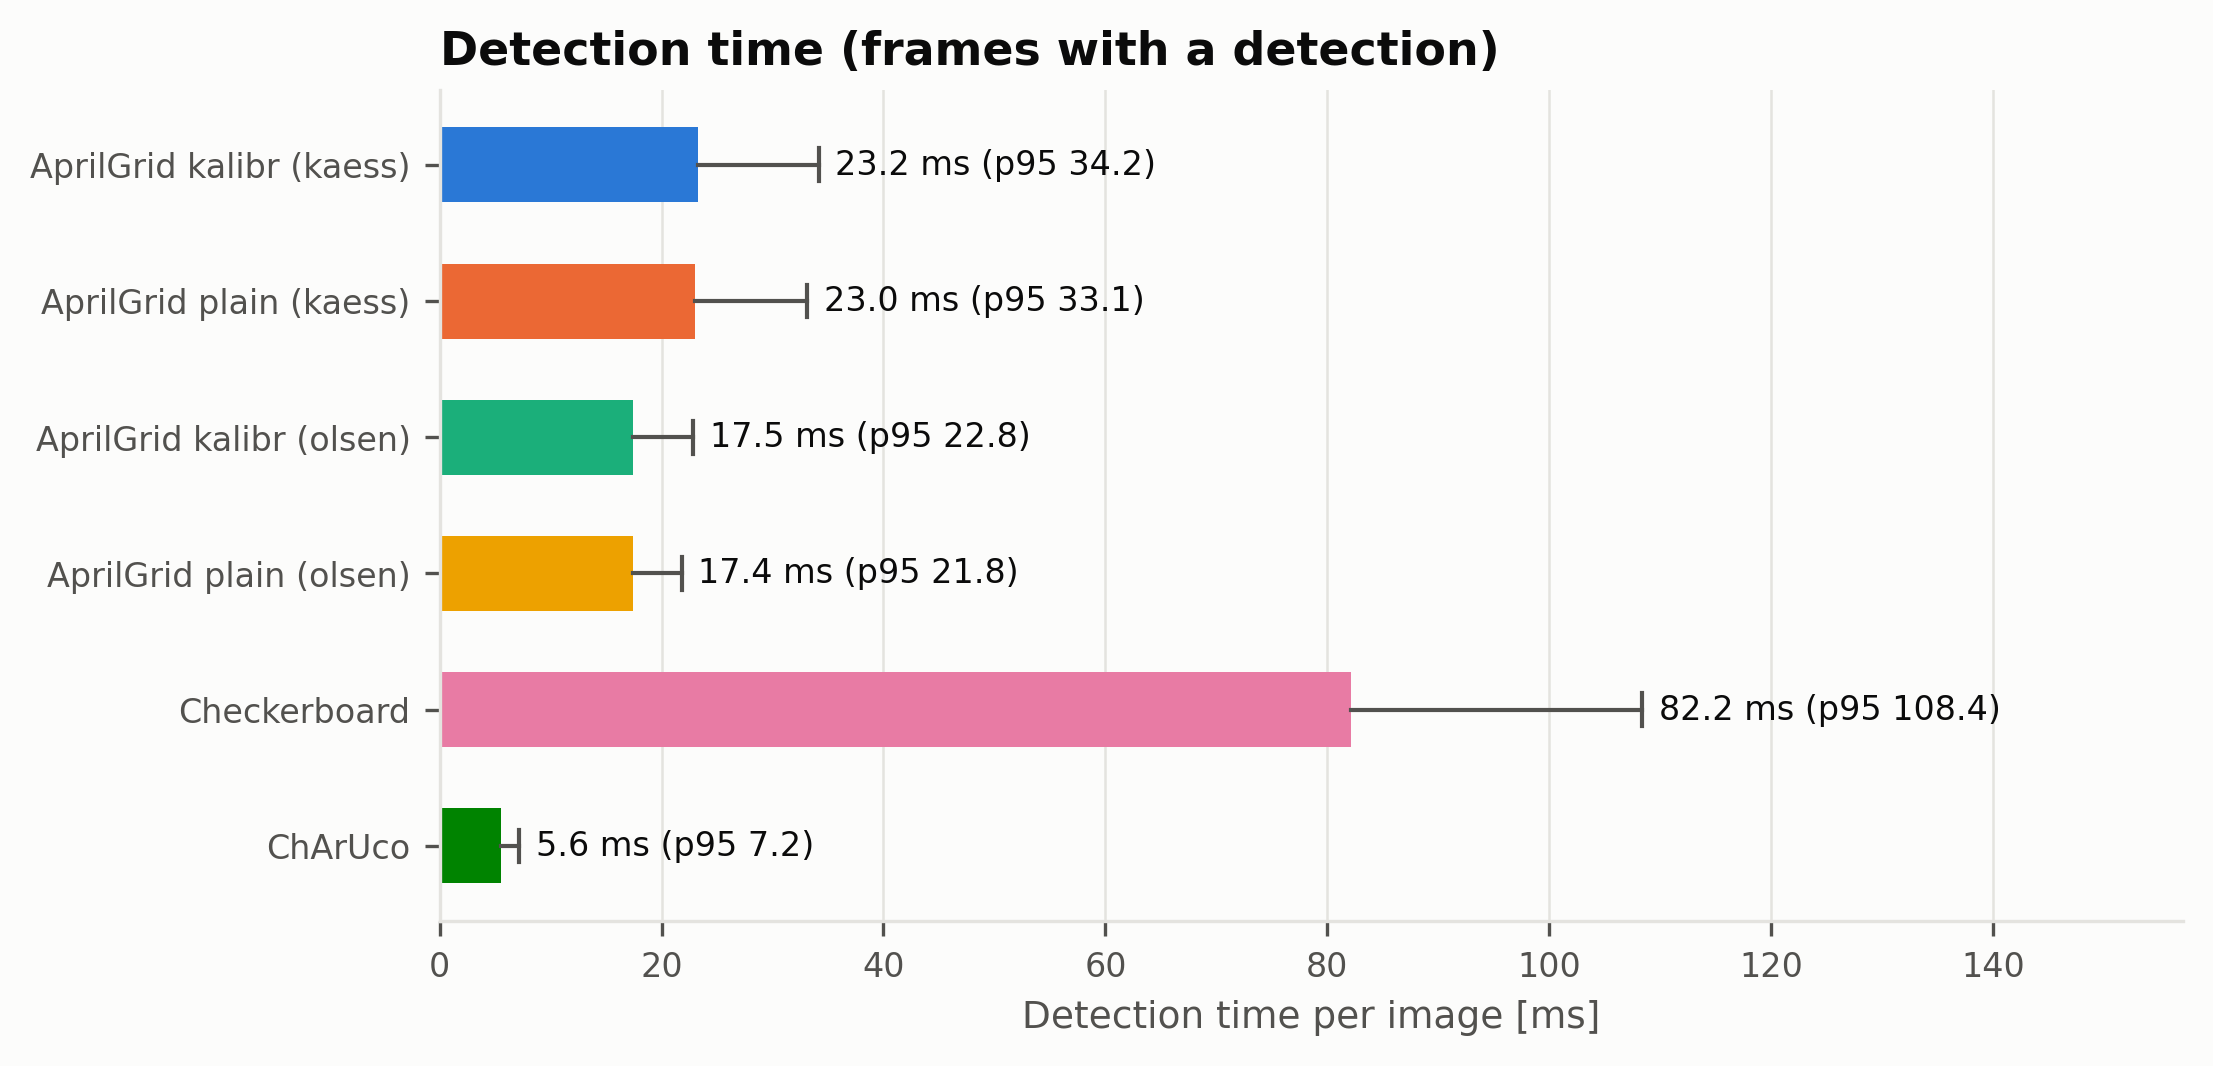
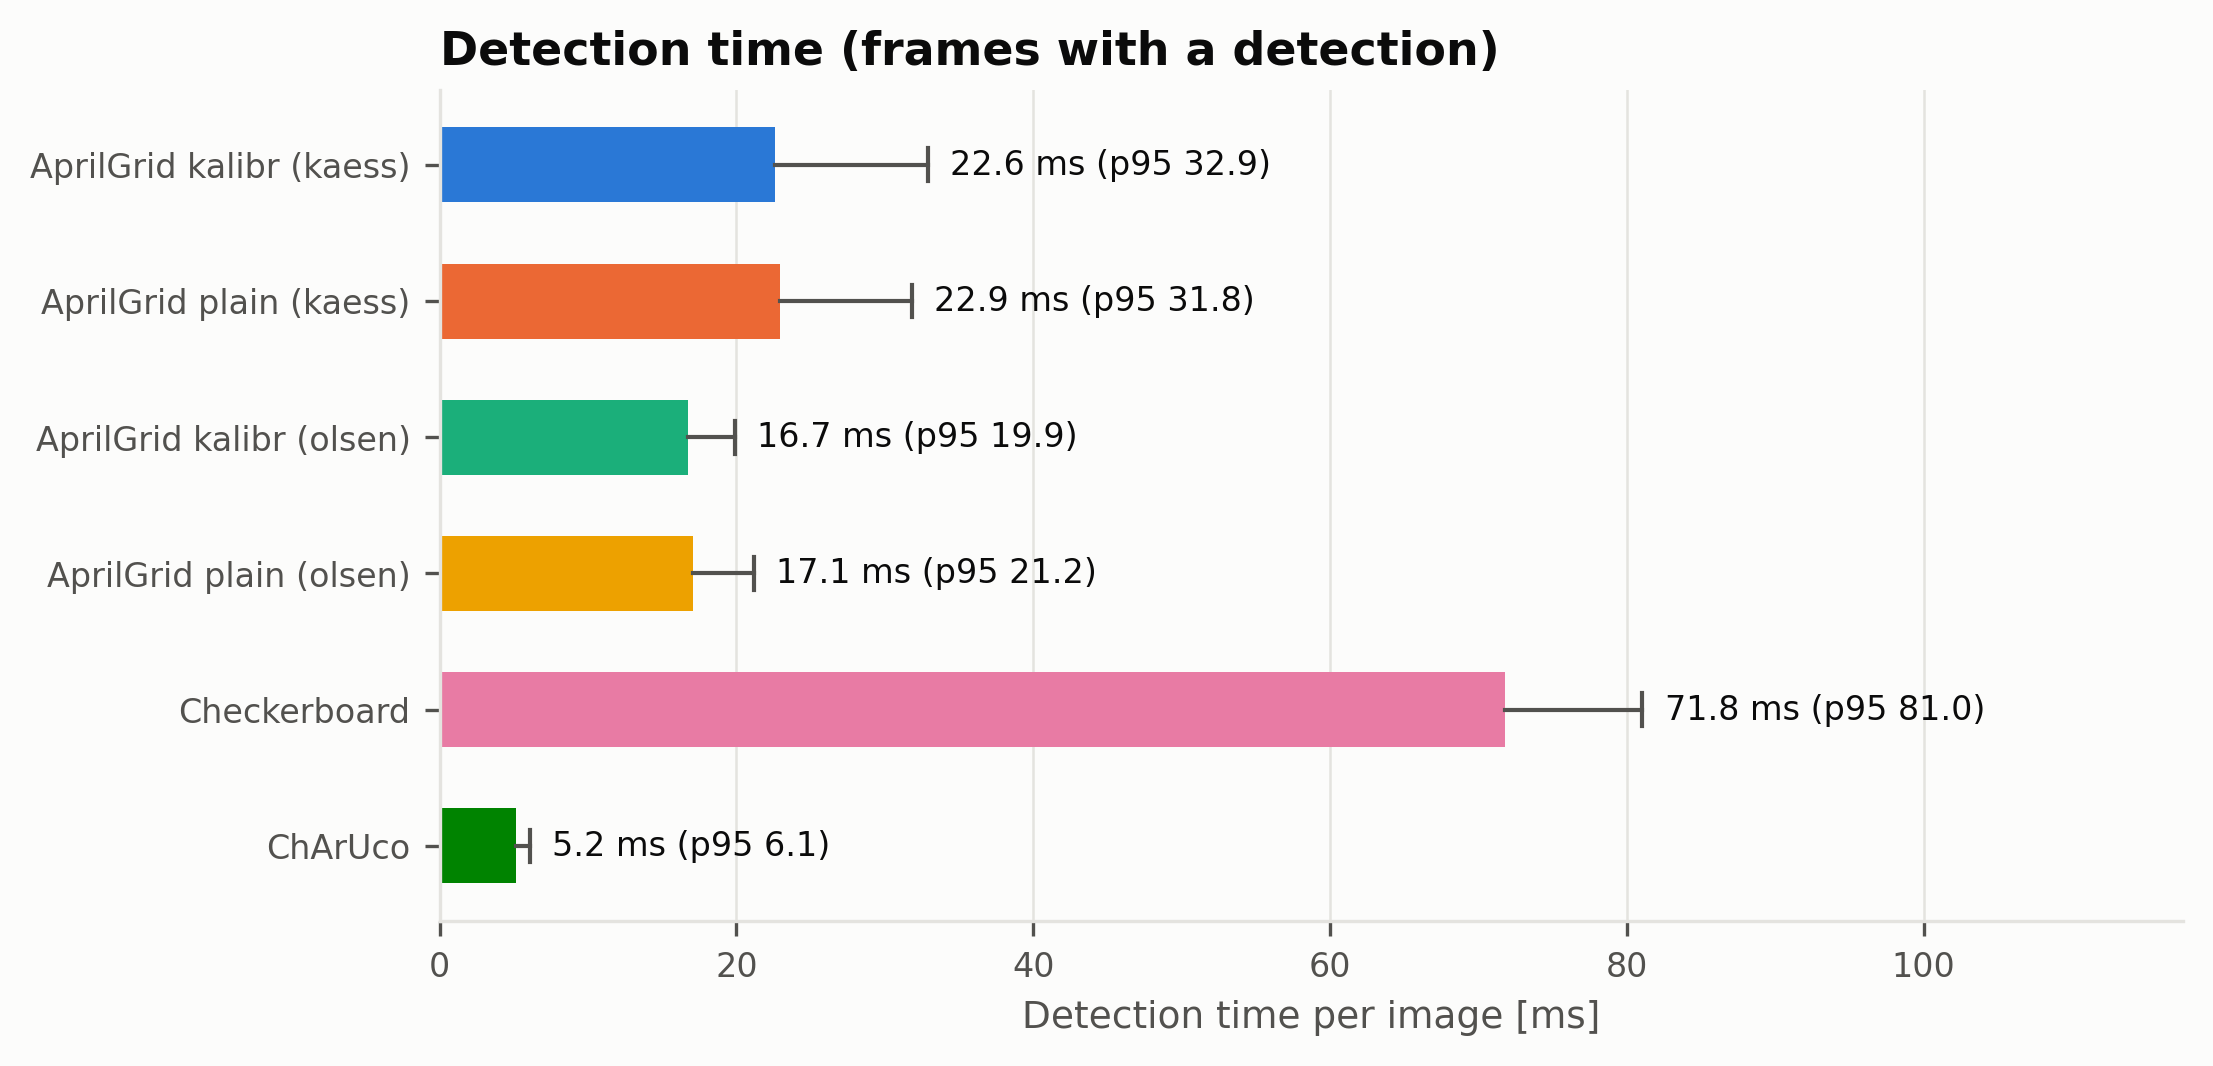
Regenerate the detector report after the simulation refactor
Accuracy and recall are unchanged, only the detection timings differ.

diff --git a/exps/exp_detector/report/REPORT.rst b/exps/exp_detector/report/REPORT.rst
@@ -57,38 +57,38 @@ Summary
      - 0.128
      - 94.6
      - 84.0
-     - 23.2
+     - 22.6
    * - AprilGrid plain (kaess)
      - 0.093
      - 94.4
      - 82.7
-     - 23.0
+     - 22.9
    * - AprilGrid kalibr (olsen)
      - 0.916
      - 95.8
      - 23.9
-     - 17.5
+     - 16.7
    * - AprilGrid plain (olsen)
      - 0.187
      - **98.4**
      - **91.9**
-     - 17.4
+     - 17.1
    * - Checkerboard
      - **0.065**
      - 89.2
      - 89.2
-     - 82.2
+     - 71.8
    * - ChArUco
      - 0.289
      - 91.0
      - 69.0
-     - **5.6**
+     - **5.2**
 
 - **Most accurate:** Checkerboard, 0.065 px rms (95 % of its corners within 0.08 px).
 
 - **Most corners found:** AprilGrid plain (olsen) finds 91.9 % of the visible corners, and detects the board in 98.4 % of the poses.
 
-- **Fastest and slowest:** ChArUco at 5.6 ms (median), Checkerboard at 82.2 ms.
+- **Fastest and slowest:** ChArUco at 5.2 ms (median), Checkerboard at 71.8 ms.
 
 - **Black squares between the tags:** they cost olsen most of its corners (23.9 % recall on the kalibr style grid, 91.9 % on the plain grid), while kaess is 84.0 % and 82.7 %.
 
@@ -344,35 +344,35 @@ images where nothing was detected.
      - p95 [ms]
      - Mean incl. misses [ms]
    * - AprilGrid kalibr (kaess)
-     - 24.9
-     - 23.2
-     - 34.2
-     - 24.5
-   * - AprilGrid plain (kaess)
-     - 24.5
-     - 23.0
-     - 33.1
      - 24.1
+     - 22.6
+     - 32.9
+     - 23.7
+   * - AprilGrid plain (kaess)
+     - 24.0
+     - 22.9
+     - 31.8
+     - 23.6
    * - AprilGrid kalibr (olsen)
-     - 16.9
-     - 17.5
-     - 22.8
-     - 17.0
-   * - AprilGrid plain (olsen)
+     - 15.7
      - 16.7
-     - 17.4
-     - 21.8
-     - 16.8
+     - 19.9
+     - 15.8
+   * - AprilGrid plain (olsen)
+     - 16.3
+     - 17.1
+     - 21.2
+     - 16.4
    * - Checkerboard
-     - 83.8
-     - 82.2
-     - 108.4
-     - 88.1
+     - 72.8
+     - 71.8
+     - 81.0
+     - 76.0
    * - ChArUco
-     - **5.5**
-     - **5.6**
-     - **7.2**
+     - **5.0**
      - **5.2**
+     - **6.1**
+     - **4.8**
 
 .. figure:: detect_time.png
    :width: 80%
